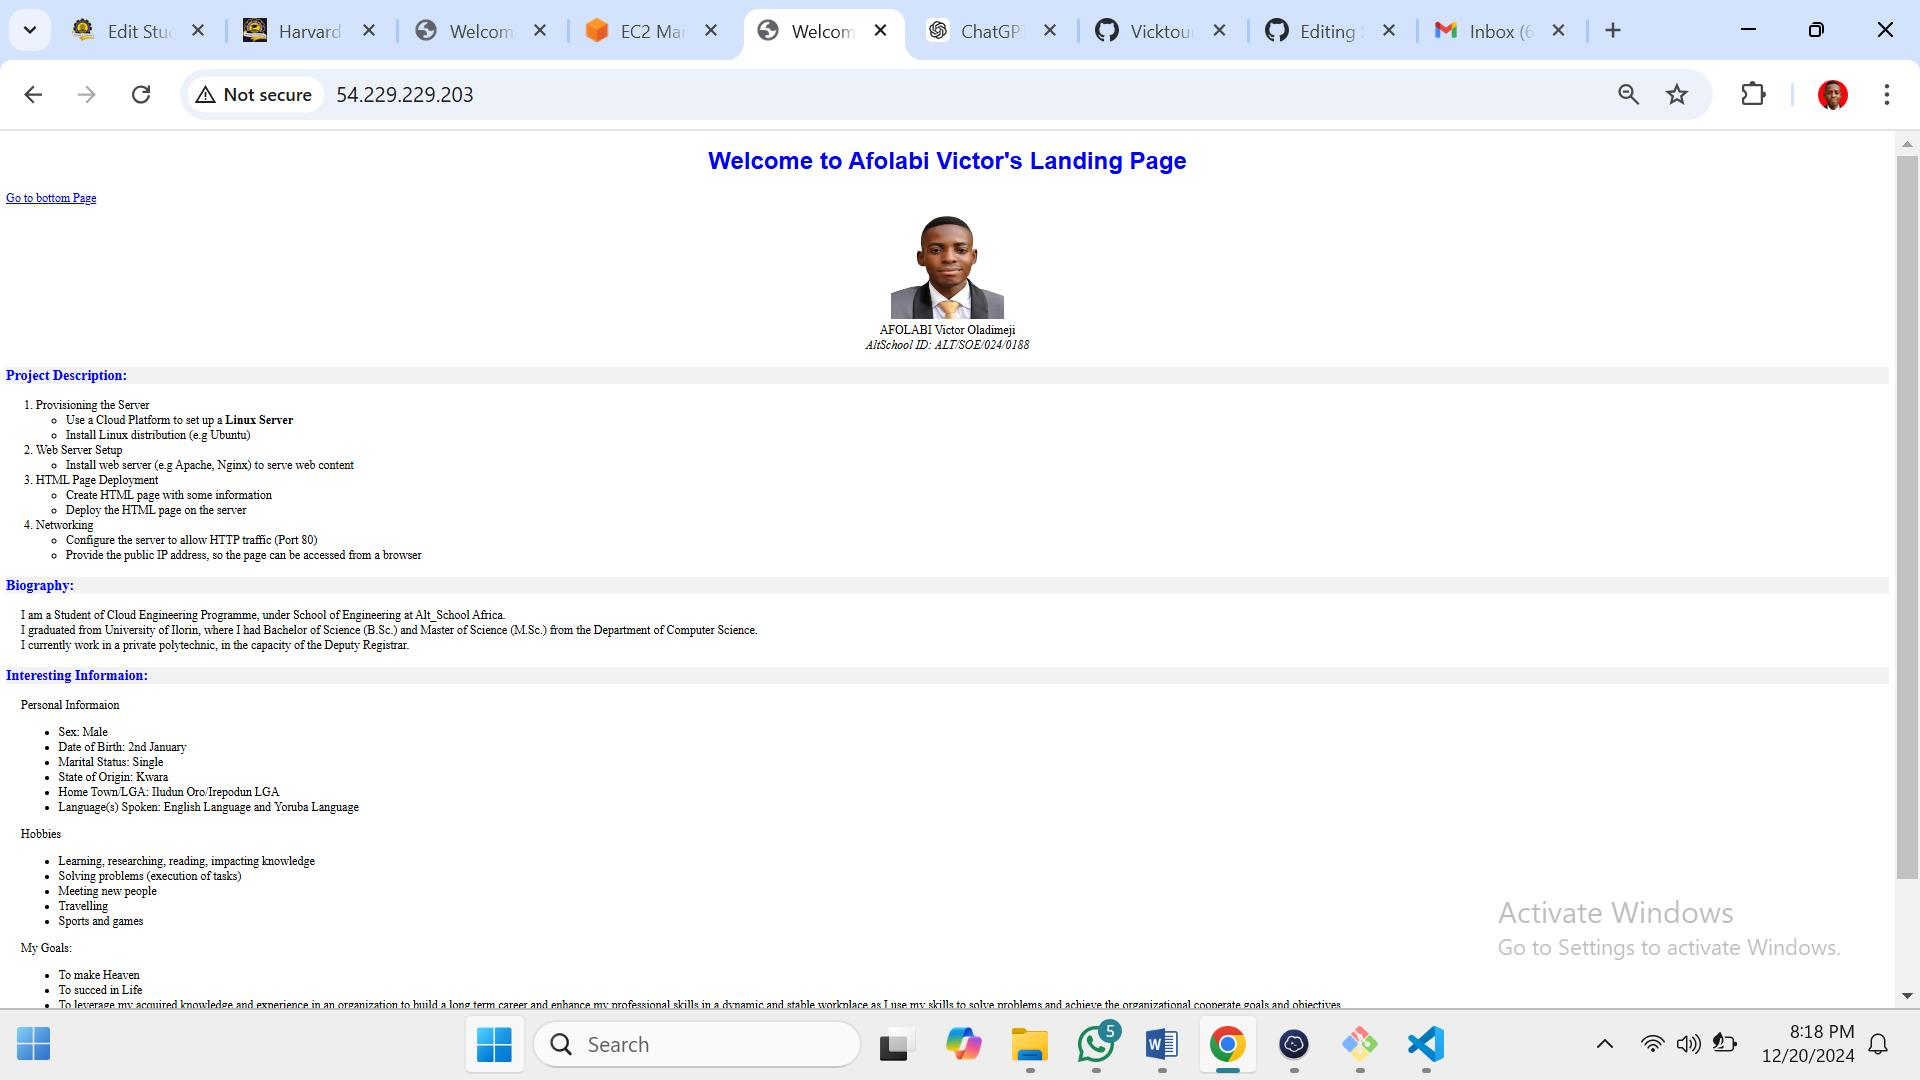
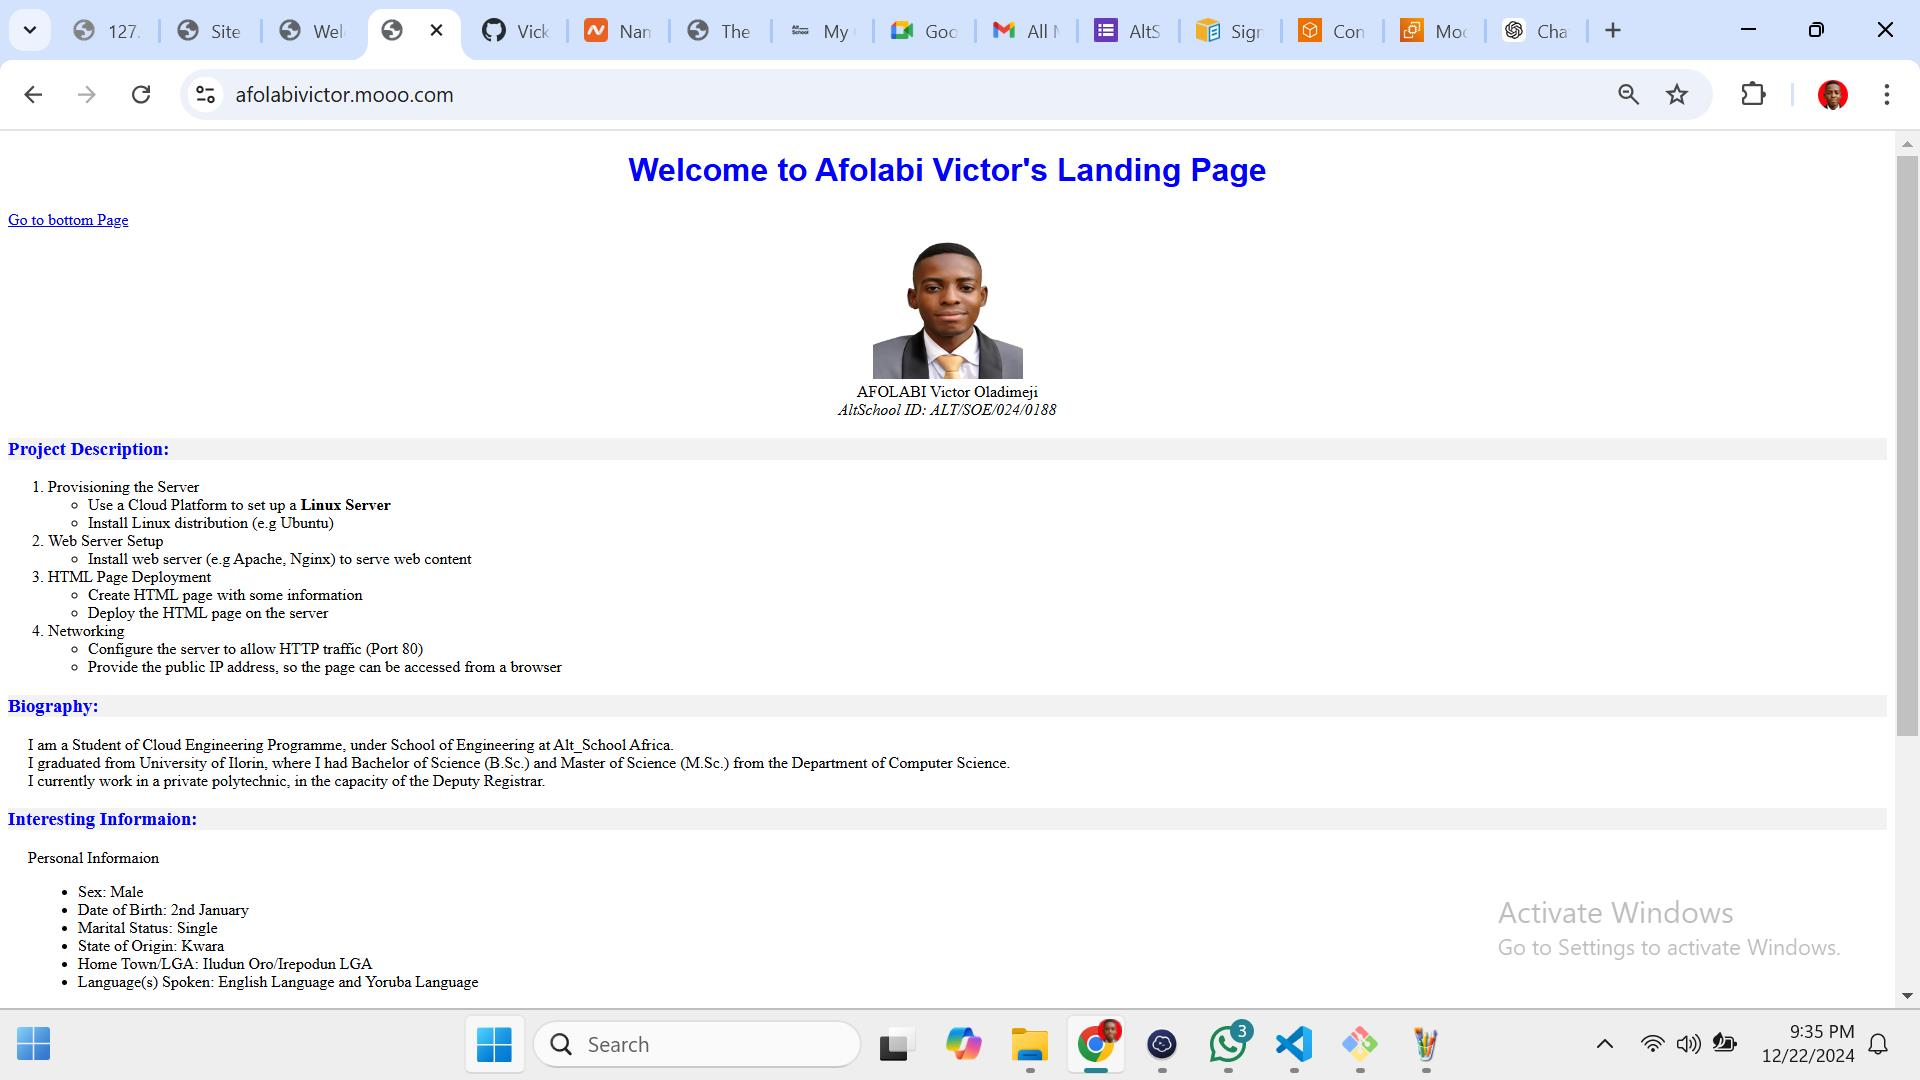
First Commit

diff --git a/README.md b/README.md
@@ -2,7 +2,7 @@
  
 ## To View Webpage
 IP Address: (http://54.229.229.203/)  
-Domain Name: afolabivictor.mooo.com
+Domain Name: (https://afolabivictor.mooo.com/)
 
 ## How to Provisioned the Server
 *Create a AWS account  
@@ -24,27 +24,28 @@ Domain Name: afolabivictor.mooo.com
 
 ## How to Deploy the HTML Page
 *Create a New Repository on your GitUp Account  
-*Press the command “cd /path/to/your/folder”	#to navigate into your folder directory  
-*Press the command “git init”	# To Initialize Git repository  
-*Press the command “git add .”	# To Add all files to the staging area  
-*Press the command “git commit -m "Your commit message"” # To add commit message  
-*Press the command “git remote add origin <repository_URL>”  # Link to your remote Repo  
-*Press the command “git push -u origin main”          # Push to the remote repository  
+*Press the command “cd /path/to/your/folder”     .....#to navigate into your folder directory  
+*Press the command “git init”     .....# To Initialize Git repository  
+*Press the command “git add .”     .....# To Add all files to the staging area  
+*Press the command “git commit -m "Your commit message"”     .....# To add commit message  
+*Press the command “git remote add origin https://github.com/Vicktour358/Second-Semester-Examination”     .....# Link to your remote Repo  
+*Press the command “git push -u origin main”     .....# Push to the remote repository  
 
 *SSH into your server  
-*Press the command “cd /var/www/html”, to enter the directory of the web server  
-*Press the command “sudo rm index.nginx-debian.html”, to remove the default HTML file from the server directory  
-*Press the command “cd ~” to go to the Home directory  
-*Press the command “git clone https://github.com/Vicktour358/Second-Semester-Examination”, to clone GitUp Repository  
-*Press the command “cd Second-Semester-Examination”, to enter into the Repo Directory  
-*Press the command “sudo mv index.html /var/www/html”, to move desired HTML file to the server directory  
+*Press the command “cd /var/www/html”     .....#to enter the directory of the web server  
+*Press the command “sudo rm index.nginx-debian.html”     .....#to remove the default HTML file from the server directory  
+*Press the command “cd ~”     .....#to go to the Home directory  
+*Press the command “git clone https://github.com/Vicktour358/Second-Semester-Examination”     .....#to clone GitUp Repository  
+*Press the command “cd Second-Semester-Examination”     .....#to enter into the Repo Directory  
+*Press the command “sudo mv index.html /var/www/html”     .....#to move desired HTML file to the server directory  
 
 ## How to Configured Networking
 *Login to your AWS Console  
 *Click on “Security Groups” at the side bar (or from Services menu)  
 *Click on “Add Rule”  
-*Set Rule 1 to SSH Type, Port 22, Anywhere ipV4 Source, Allow SSH description  
-*Set Rule 2 to Custom TCP Type, Port 80, Anywhere ipV4 Source, Open Port 80 description  
+*Set Rule 1 to: Type --> SSH; Protocol --> TCP; Port --> 22; Source --> Anywhere-IPv4; Description --> SSH Connection  
+*Set Rule 2 to: Type --> HTTP; Protocol --> TCP; Port --> 80; Source --> Anywhere-IPv4; Description --> Connect to HTTP  
+*Set Rule 3 to: Type --> HTTPS; Protocol --> TCP; Port --> 443; Source --> Anywhere-IPv4; Description --> Connect to HTTPS  
 *Click on “Save Rule” 
 
 ## Screenshots of my Project
